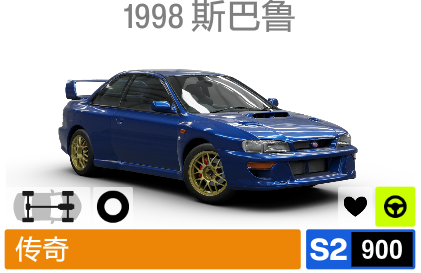
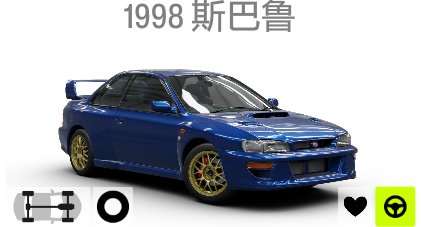
Release v1.2.4: optimize sell flow

diff --git a/main.py b/main.py
@@ -95,7 +95,8 @@ DEBUG_LOG_DIR = os.path.join(DEBUG_DIR, "logs")
 TEMPLATE_CACHE_FILE = os.path.join(CACHE_DIR, "template_cache.pkl")
 TEMPLATE_META_FILE = os.path.join(CACHE_DIR, "template_meta.json")
 LOCAL_VERSION_FILE = os.path.join(APP_DIR, "version.json")
-DEFAULT_CURRENT_VERSION = "1.2.3"
+OCR_MODELS_DIR = os.path.join(APP_DIR, "ocr_models")
+DEFAULT_CURRENT_VERSION = "1.2.4"
 APP_DISPLAY_NAME = "FH6Auto Fork"
 APP_ATTRIBUTION = "Based on YOUSTHEONE/FH6Auto"
 DEFAULT_UPSTREAM_REPO_URL = "https://github.com/YOUSTHEONE/FH6Auto"
@@ -1096,7 +1097,7 @@ class FH_UltimateBot(ctk.CTk):
             text_color="#60A5FA"
         ).pack(side="left", padx=(15, 18))
 
-        ctk.CTkLabel(self.delay_settings_frame, text="上车后等待:").pack(side="left", padx=(0, 6))
+        ctk.CTkLabel(self.delay_settings_frame, text="升级与调教动画时间:").pack(side="left", padx=(0, 6))
         self.lbl_post_get_in_car_value = ctk.CTkLabel(
             self.delay_settings_frame,
             text=self.format_delay_text(self.config.get("post_get_in_car_delay", 0.5)),
@@ -1520,6 +1521,22 @@ class FH_UltimateBot(ctk.CTk):
             # 兜底：如果获取不到窗口坐标，移到绝对屏幕左上角
             self.hw_mouse_move(5, 5)
         time.sleep(0.2)
+
+    def is_current_car_slot_position(self, pos):
+        if not pos:
+            return False
+
+        full_region = self.regions.get("全界面")
+        if not full_region:
+            return False
+
+        x, y, w, h = full_region
+        px, py = pos
+        rel_x = (px - x) / max(w, 1)
+        rel_y = (py - y) / max(h, 1)
+
+        # 当前选中车辆卡片通常位于屏幕偏左中部，右侧下一张车卡不应落入这个范围
+        return 0.22 <= rel_x <= 0.40 and 0.20 <= rel_y <= 0.52
 
     def move_to_game_coord(self, x, y):
         """
@@ -2104,7 +2121,7 @@ class FH_UltimateBot(ctk.CTk):
                         
                     self.log(f"正在进行全局恢复 (第 {continuous_failures}/{MAX_RECOVERIES} 次允许的重试)...")
                     
-                    if self.attempt_recovery():
+                    if self.attempt_recovery_v2():
                         continue # 恢复成功，回到 while 顶部再次尝试这个任务
                     else:
                         self.log("致命错误：连退回菜单/重启也失败了，彻底停止。")
@@ -2297,6 +2314,29 @@ class FH_UltimateBot(ctk.CTk):
             time.sleep(0.1)
 
     
+    def pause_for_manual_recovery(self, reason=""):
+        if not self.is_running:
+            return False
+
+        if reason:
+            self.log(reason, level="WARNING")
+        self.log("已自动暂停任务，请手动调整游戏状态；处理完成后点击继续(F9)以重新开始当前流程。", level="WARNING", step="等待人工处理")
+
+        if not self.is_paused:
+            self.toggle_pause()
+
+        while self.is_running and self.is_paused:
+            time.sleep(0.2)
+
+        if not self.is_running:
+            return False
+
+        self.log("检测到已点击继续，准备重新检查游戏状态并重试当前流程...", step="恢复重试")
+        if not self.check_and_focus_game():
+            self.log("继续后仍未能聚焦到游戏，请检查游戏是否仍在运行。", level="ERROR")
+            return False
+        return True
+
     def start_hotkey_listener(self):
         def hotkey_thread():
             def on_press(k):
@@ -2593,6 +2633,18 @@ class FH_UltimateBot(ctk.CTk):
                 # 杀进程后重新拉起
                 if not self.restart_game_and_boot():
                     return False
+        self.log("环境重置成功！即将从中断处继续剩余任务。")
+        return True
+
+    def attempt_recovery_v2(self):
+        self.log("任务执行异常中断，准备执行断点恢复流程...")
+        if not self.check_and_focus_game():
+            if not self.restart_game_and_boot():
+                return False
+        else:
+            if not self.advanced_enter_menu():
+                return self.pause_for_manual_recovery("高级动态退回失败，已改为自动暂停，不再强杀游戏。请手动调整游戏状态后点击继续。")
+
         self.log("环境重置成功！即将从中断处继续剩余任务。")
         return True
 
@@ -4881,7 +4933,8 @@ class FH_UltimateBot(ctk.CTk):
             self.hw_press("enter")
             time.sleep(0.2)
             self.hw_press("esc")
-            time.sleep(1.0)
+            self.log(f"退出车辆选择后额外等待 {self.get_post_get_in_car_delay():.2f}s，再查找升级与调教...")
+            self.sleep_post_get_in_car()
 
             pos_sjy = None
             for _ in range(20):
@@ -5147,32 +5200,96 @@ class FH_UltimateBot(ctk.CTk):
         self.hw_press("pagedown", delay=0.15)
         time.sleep(1.0)
 
-        self.hw_press("enter")  # 进入我的车辆
+        self.hw_press("enter")  # 筛选已收藏车
         time.sleep(2.0)
-        #选择一辆收藏
+        #??????
         self.hw_press("y") 
         time.sleep(1.0)
         self.hw_press("enter")
         time.sleep(0.8)
         self.hw_press("esc") 
         time.sleep(1.5)
-        #驾驶收藏的车
-        self.hw_press("enter")
-        time.sleep(0.8)
-        self.move_to_game_coord(5, 5)
-        time.sleep(0.2)
+        pos_skillcar = self.wait_for_image(
+            "skillcar-rm.png",
+            region=self.regions["全界面"],
+            threshold=0.75,
+            timeout=5,
+            interval=0.2,
+            fast_mode=True
+        )
+        if not pos_skillcar:
+            self.log("首次未找到 skillcar-rm，返回品牌列表重新定位 CCbrand 后再试一次...")
+            self.hw_press("backspace")
+            time.sleep(0.6)
 
-        pos = self.wait_for_image("rc.png", region=self.regions["全界面"], threshold=0.65, timeout=5, interval=0.2, fast_mode=True)
-        if pos:
-            self.log("找到上车，执行点击")
-            self.game_click(pos) # 【重要修复】：之前写的是 self.safe_click 导致直接报错崩溃，现已修正
-            time.sleep(2.0)
+            brand_pos_retry = None
+            for i in range(5):
+                if not self.is_running:
+                    return False
+
+                brand_pos_retry = self.wait_for_any_image_gray(
+                    ["CCbrand.png", "CCbrand-b.png"],
+                    region=self.regions["全界面"],
+                    threshold=0.72,
+                    timeout=0.8,
+                    interval=0.2,
+                    fast_mode=True
+                )
+                if brand_pos_retry:
+                    break
+
+                self.log(f"第 {i + 1} 次未识别到品牌，按 Up 后继续尝试...")
+                self.hw_press("up")
+                time.sleep(0.25)
+
+            if brand_pos_retry:
+                self.log("已重新定位到 CCbrand，点击后执行 Enter -> Enter -> Esc，再继续查找 skillcar-rm...")
+                self.game_click(brand_pos_retry)
+                time.sleep(0.8)
+                self.hw_press("enter")
+                time.sleep(0.8)
+                self.hw_press("enter")
+                time.sleep(0.8)
+                self.hw_press("esc")
+                time.sleep(1.0)
+                pos_skillcar = self.wait_for_image(
+                    "skillcar-rm.png",
+                    region=self.regions["全界面"],
+                    threshold=0.75,
+                    timeout=5,
+                    interval=0.2,
+                    fast_mode=True
+                )
+            else:
+                self.log("兜底流程中未找到 CCbrand。")
+
+        if pos_skillcar:
+            self.log("找到消耗品车辆，执行点击")
+            is_current_skillcar = self.is_current_car_slot_position(pos_skillcar)
+            self.log(f"skillcar-rm 命中坐标: {pos_skillcar} | {'当前乘坐车位' if is_current_skillcar else '非当前乘坐车位'}")
+            if is_current_skillcar:
+                self.log("命中当前乘坐的 skillcar-rm，直接按 ESC 返回并继续后续流程")
+                self.hw_press("esc")
+                time.sleep(1.5)
+            else:
+                self.game_click(pos_skillcar)
+                time.sleep(0.6)
+                self.log("命中非当前乘坐的 skillcar-rm，补一次 Enter 进入菜单")
+                self.hw_press("enter")
+                time.sleep(0.8)
+                pos = self.wait_for_image("rc.png", region=self.regions["全界面"], threshold=0.65, timeout=5, interval=0.2, fast_mode=True)
+                if pos:
+                    self.log("找到上车，执行Enter")
+                    self.hw_press("enter")
+                    time.sleep(2.0)
+                else:
+                    self.log("未找到上车，执行两次ESC")
+                    self.hw_press("esc")
+                    time.sleep(1.5)
+                    self.hw_press("esc")
+                    time.sleep(2.0)
         else:
-            self.log("该车辆已经驾驶，或未找到图片，执行两次ESC")
-            self.hw_press("esc")
-            time.sleep(1.5)
-            self.hw_press("esc")
-        time.sleep(2.0)
+            self.log("未找到消耗品车辆")
 
         found = False
         for i in range(30):
@@ -5210,31 +5327,9 @@ class FH_UltimateBot(ctk.CTk):
         #切换到消耗品品牌
         self.log("切换到消耗品品牌...")
         self.hw_press("backspace")
-        brand_pos = None
-        for _ in range(5):
-            if not self.is_running:
-                return False
-                
-
-            brand_pos = self.wait_for_any_image_gray(
-                ["CCbrand.png", "CCbrand-b.png"],
-                region=self.regions["全界面"],
-                threshold=0.75,
-                timeout=0.8,
-                interval=0.2,
-                fast_mode=True
-            )
-            if brand_pos:
-                break
-
-            self.hw_press("up")
-            time.sleep(0.25)
-
-        if not brand_pos:
-            self.log("未找到品牌")
-            return False
-
-        self.game_click(brand_pos)
+        time.sleep(1.2)
+        self.log("已进入制造商列表，直接按 Enter 确认当前品牌。")
+        self.hw_press("enter")
         time.sleep(0.8)
         
         self.log("开始删除最近获得的车辆！！！请人工确认是否移除")
@@ -5258,7 +5353,7 @@ class FH_UltimateBot(ctk.CTk):
             
             if not pos_target:
                 not_found_pages += 1
-                if not_found_pages >= 2:
+                if not_found_pages >= 8:
                     self.log("=连续翻找 2 页仍未搜索到目标车辆！视为车辆已全部清理完毕。")
                     self.log("主动结束清理任务，准备进入下一步骤...")
                     break  # 直接跳出循环，结束当前任务